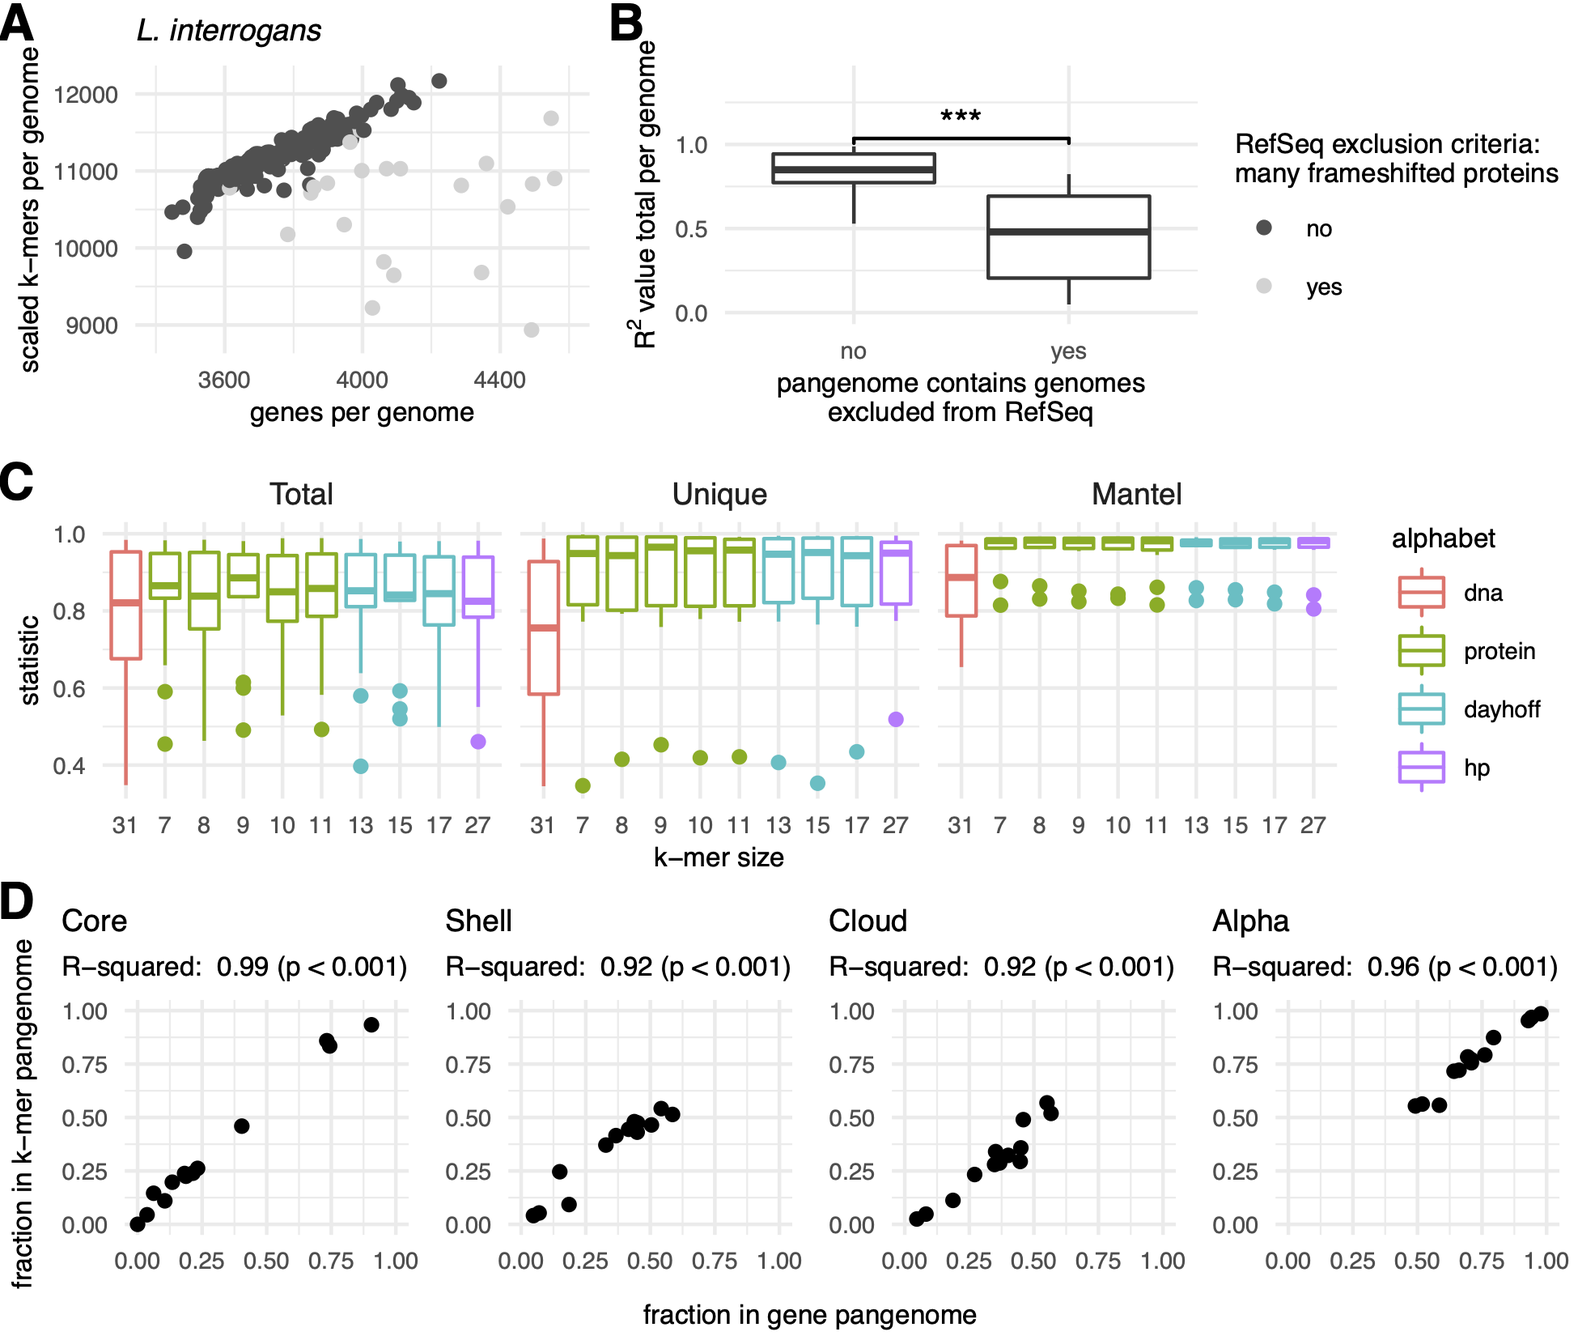
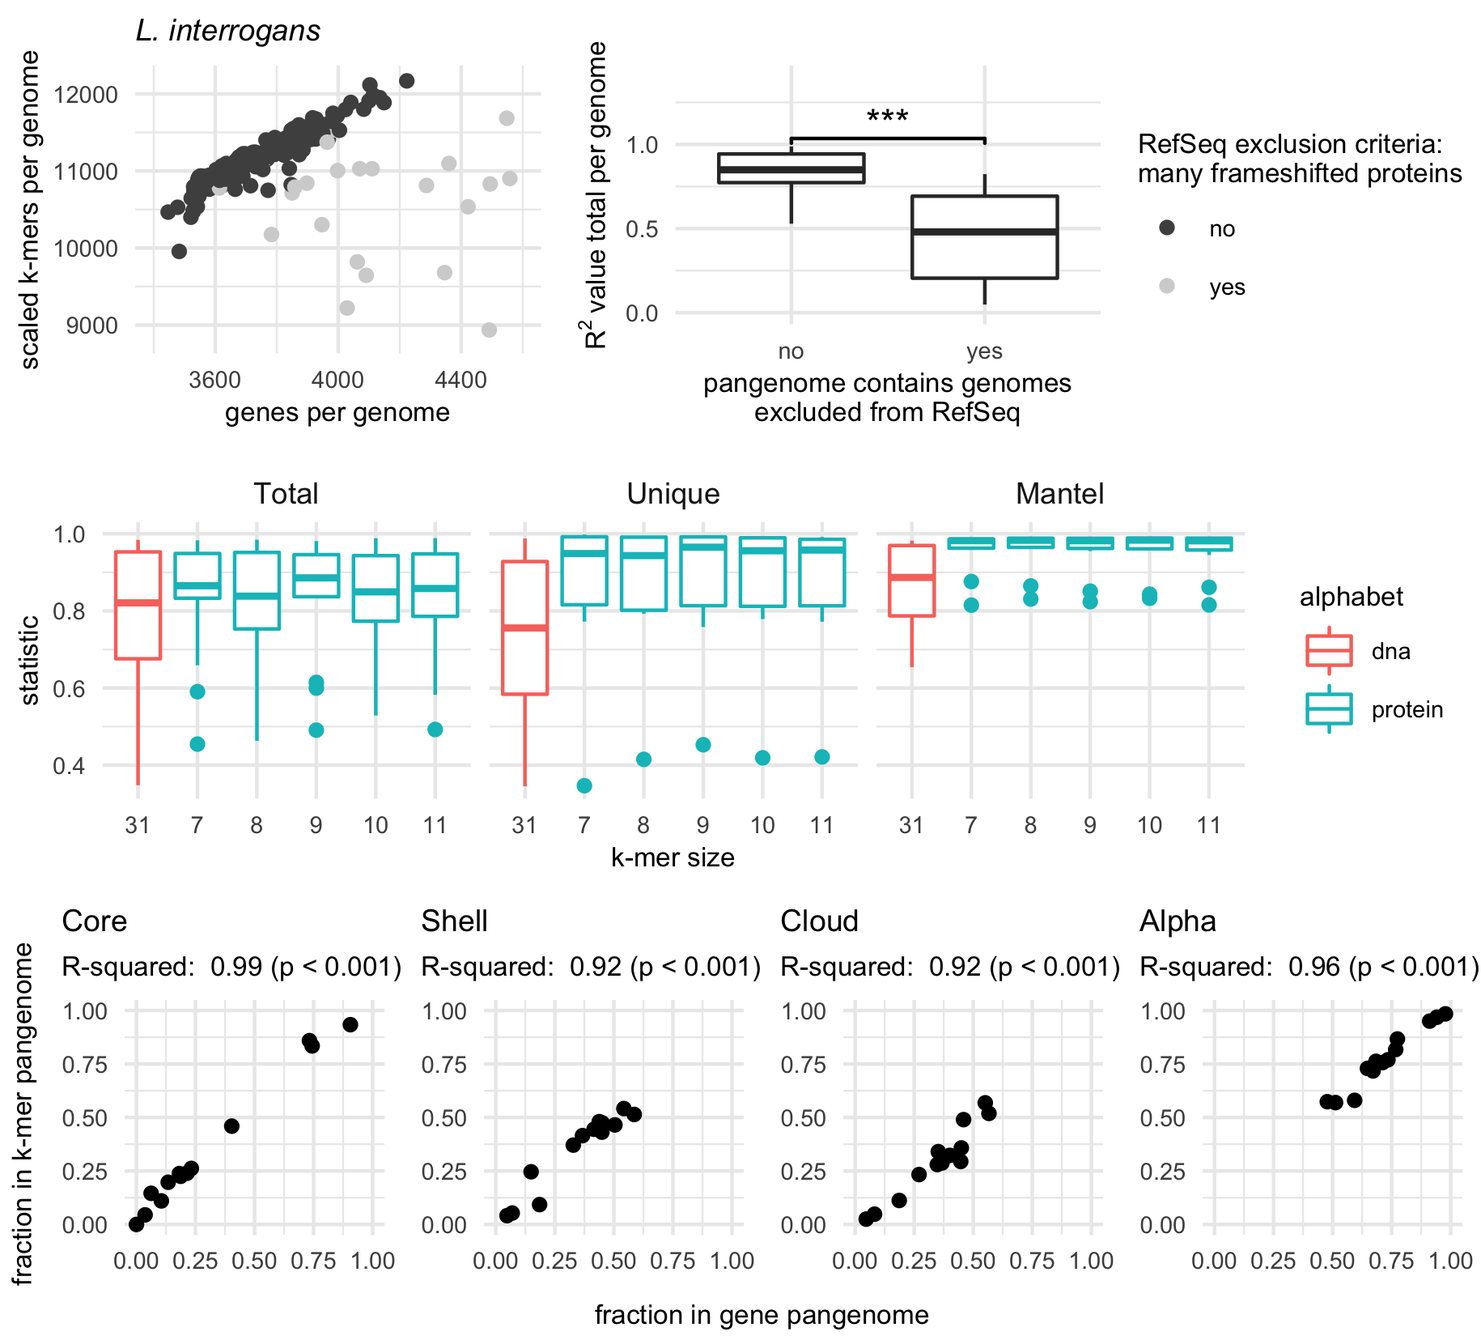
tessa's changes, abstract

diff --git a/content/03.results.md b/content/03.results.md
@@ -1,7 +1,7 @@
 # Results
 
 In an effort to reconstruct metapangenomes without loss of information from assembly and binning [@doi:10.1186/s13059-020-02066-4; @doi:10.1038/nmeth.4458; @doi:10.1101/2021.07.12.451567; @doi:10.1038/s41396-018-0081-5; @doi:10.1099/mgen.0.000436; @doi:10.1101/2021.05.04.442591], we demonstrate a pipeline that relies on k-mers and assembly graphs for metapangenome estimation (**Figure @fig:overview**).
-We first show that amino acid k-mers accurately estimate microbial pangenomes by comparing amino acid profiles of proteomes (translated coding domain sequences) against the proteomes themselves (**Figure @fig:overview A**).
+We first show that amino acid k-mers (k~aa~-mers) accurately estimate microbial pangenomes by comparing amino acid profiles of proteomes (translated coding domain sequences) against the proteomes themselves (**Figure @fig:overview A**).
 To derive amino acid k-mers directly from shotgun metagenome reads, we next demonstrate the accuracy of a tool called orpheum for open reading frame prediction from short sequencing reads (**Figure @fig:overview B**).
 We use assembly graph genome queries to retrieve species-specific reads from the metagenome, predict open reading frames from those reads using orpheum, and build a metapangenome using protein k-mers (**Figure @fig:overview C**).
 We then apply this method to species present over time in a time series metagenomes from a human gut microbiome.
@@ -15,15 +15,15 @@ Approaches that were developed or tested in this manuscript are outlined in grey
 The blue and orange lines correspond to steps tested in panels **A** and **B**.
 ](images/metapangenome_paper_overview.png){#fig:overview}
 
-## Reduced alphabet k-mers accurately estimate characteristics of microbial pangenomes
+## Protein k-mers accurately estimate characteristics of microbial pangenomes
 
 Pangenomes from isolates are typically built by assembling each isolate genome and predicting genes (open reading frames), clustering gene sequences from all genomes into a non-redundant set, and estimating the presence/absence or abundance of each gene in each genome. 
-To determine whether bacterial and archaeal pangenomes could be constructed from reduced alphabet k-mers, we compared pangenomes estimated from genes against those estimated from k-mers (amino acid, dayhoff, and hydrophobic-polar).
+To determine whether bacterial and archaeal pangenomes could be constructed from protein k-mers, we compared pangenomes estimated from genes against those estimated from k-mers.
 We compared pangenomes from 23 species belonging to 23 phyla in the GTDB taxonomy [@doi:10.1093/nar/gkab776], with pangenome size ranging from 20-972 genomes (mean = 203 genomes, median = 44 genomes) (**Figure S @fig:tree_fig**).
 For each pangenome, we compared the total number of genes to the total number of k-mers, and the number of unique genes to the number of distinct k-mers within each genome.
 We also tested the similarity of presence/absence profiles between pangenomes constructed with different methods using the Mantel test.
 
-For these three metrics, performance varied minimally across encodings and k-mer sizes, but varied dramatically between different pangenomes: both k-mers and genes are highly correlated for some pangenomes and are not correlated for others (**Figure S @fig:boxplt_fig**).
+For these three metrics, performance varied minimally across encodings and k-mer sizes, but varied dramatically for some pangenomes: both k-mers and genes are highly correlated for some pangenomes and are not correlated for others (**Figure S @fig:boxplt_fig**).
 We investigated pangenomes more closely to determine the source of the poor correlations and found that they were caused by the presence of many frameshifted proteins, one of many potential criteria for exclusion of GenBank genomes from RefSeq.
 For example, *Leptospira interrogans* had an R^2^ of 0.12 between the total number of genes and k-mers in genomes in the pangenome, but 21 of 317 genomes contained frameshifted proteins. 
 Removing these genomes increased the R^2^ to 0.87 (**Figure @fig:panmers_fig A**).
@@ -31,12 +31,11 @@ This trend was consistent across pangenomes, where pangenomes with one or more f
 Other RefSeq exclusion criteria did not impact the correlation between the total genes and k-mers per genome for a given pangenome.
 
 Using pangenomes that contained no genomes excluded from RefSeq for containing many frameshifted proteins (n = 13), we found that k-mer size encoding had little impact on the accuracy of pangenome estimation with k-mers (**Figure @fig:panmers_fig C**).
-This is likely because the genomes of the same species are closely related, so any reduced alphabet k-mer is sufficient to overcome minor genomic variations such as those introduced by codon degeneracy or evolutionary drift (CITE?).
+This is likely because the genomes of the same species are closely related, so protein k-mers is sufficient to overcome minor genomic variations such as those introduced by codon degeneracy or evolutionary drift (CITE?).
 The one exception was for nucleotide k-mers (*k* = 31), which did not correlate as strongly with gene-based pangenomes.
 This supports the use of reduced alphabet k-mer encodings over nucleotide k-mers for construction of pangenomes.
 Given that neither encoding nor k-mer size impacted these performance metrics, we selected protein k-mers with k = 10 to complete the rest of our analysis as this combination was the only combination to fall among the top five performers across all three metrics.
 In addition, protein k-mers of length 10 have recently been shown to perform well for comparisons across variable taxonomic distances (CITE: TESSA).
-<!-- TR: should this comment be moved to the discussion? -->
 
 ![
 **Amino acid k-mers accurately estimate microbial pangenomes.**
@@ -66,7 +65,7 @@ Without accurate open reading frame prediction, reads would need to be translate
 This would inflate the number of k-mers and decrease similarity between genomes.
 
 We evaluated whether orpheum, a tool recently developed to predict open reading frames in Eukaryotic short reads [@doi:10.1101/2021.07.09.450799], could also perform this task in bacterial and archaeal sequences.
-Orpheum predicts open reading frames by comparing reduced alphabet k-mers in six frame translations of short sequencing reads against those in a database (Jaccard containment) and assigns an open reading frame as coding if containment exceeds a user-defined threshold [@doi:10.1101/2021.07.09.450799].
+Orpheum predicts open reading frames by comparing reduced alphabet k-mers in six frame translations of short sequencing reads against those in a database (containment) and assigns an open reading frame as coding if containment exceeds a user-defined threshold [@doi:10.1101/2021.07.09.450799].
 To evaluate orpheum, we constructed a database containing all k-mers in coding domain sequences from genomes in GTDB rs202.
 Using representative genomes from the 23 species above, as well as 20 additional RefSeq genomes not in the GTDB rs202 database, we simulated short sequencing reads either from coding domain sequences or non-coding sequences and used these reads to test orpheum.
 
@@ -178,7 +177,7 @@ Metronidazole targets anaerobic bacteria via reduction by pyruvate:ferredoxin ox
 Metronidazole treatment disproportionately impacts the presence of anaerobes in the gut microbiome [@doi:10.1007/s10350-004-0623-y].
 We hypothesized that fluctuations in accessory k~aa~-mers reflected strain-level turn over in the community.
 To confirm this, we compared the nucleotide k-mer content in each query neighborhood against the GTDB database to determine which strains were present (**Figure @fig:metap_fig D**).
-We used a k-mer size of 51, as this is indicative of strain-level similarity (CITE: metapalette, tessa).
+We used a k-mer size of 51, as this is indicative of strain-level similarity [@doi:10.1128/mSystems.00020-16] (CITE: tessa).
 In each of the three species we investigated, we identified different patterns of strain fluctuations.
 In *Bacteroides uniformis*, only one strain (BIOML-A27) was present until week 25, when another strain appears (BIOML-A2).
 In *Parabacteroides distasonis*, the dominant strain switches at week 13 (20_3 to OF01-14), coincident with other strains appearing (BIOML-A21, BIOML-A26, BIOML-A32).

diff --git a/content/06.methods.md b/content/06.methods.md
@@ -1,11 +1,10 @@
 # Methods 
 
-<!-- Can I pretty plz keep these separate or do they need to be combined? -->
-All code is available at github.com/taylorreiter/2021-panmers (results section 1), github.com/taylorreiter/2021-orpheum-sim (results section 2), and https://github.com/taylorreiter/2021-metapangenome-example (results section 3).
+All code is available at github.com/dib-lab/2021-panmers (results section 1), github.com/dib-lab/2021-orpheum-sim (results section 2), and https://github.com/dib-lab/2021-metapangenome-example (results section 3).
 
 ### Selection of benchmarking species for pangenome analysis
 We selected a species representative for each of the 23 phyla in GTDB rs202 [@doi:10.1093/nar/gkab776]. 
-To select representative species, we first filtered species with fewer than 20 representatives and greater than 1000 representatives.
+To select representative species, we first filtered species with fewer than 20 genomes and greater than 1000 genomes.
 While this approach scales beyond 1000 genomes, we elected to benchmark smaller sets to iterate over the potential parameter space more quickly.
 Of species remaining after filtering, we selected the species within each phyla that had the largest number of genomes.
 We downloaded these genomes from GenBank.
@@ -52,20 +51,19 @@ We used the default short read error profile within polyester.
 ### Determining short read open reading frames with orpheum 
 We used the orpheum tool to predict open reading frames from simulated short reads [@doi:10.1101/2021.07.09.450799].
 Orpheum was developed to predict open reading frames in short RNA-seq reads from Eukaryotic organisms without a reference genome or transcriptome sequence [@doi:10.1101/2021.07.09.450799].
-Orpheum perform six-frame translation on nucleotide sequencing reads, calculates k-mers in an amino acid, dayhoff, or hydrophobic-polar encoding at the designated k-mer length, and then estimates the Jaccard similarity between k-mers in each translation frame and a database. 
+Orpheum perform six-frame translation on nucleotide sequencing reads, calculates k-mers in an amino acid encoding at the designated k-mer length, and then estimates the Jaccard similarity between k-mers in each translation frame and a database. 
 It then selects all open reading frames based on a Jaccard similarity threshold, and returns those reads as translated amino acid sequences.
 Open reading frames are excluded if they contain stop codons, low complexity sequences, or if the read is too short to perform translation.
 Reads are designated as non-coding if they don't reach the Jaccard similarity threshold and are not excluded for other reasons.
-<!-- Is it jaccard similarity? It's whichever one makes sense and I always get them confused -->
-
-We constructed a database from GTDB rs202 using sourmash XXX and using a k-mer size of 10.
-+ @Tessa any relevant details would be very helpful :) 
+We constructed a database from all genomes in GTDB rs202.
+We either downloaded predicted open reading frames from GenBank, or generated them using prodigal [@doi:10.1186/1471-2105-11-119], and translated them into protein sequences using transeq [@url:http://ebi.ac.uk/Tools/emboss/transeq/index.html].
+we then used to build a nodegraph using a k~aa~-mer size of 10.
 
 ### K~aa~-mer metapangenome analysis of iHMP metagenomes
 We used sourmash, spacegraphcats, and orpheum to perform k~aa~-mer metapangenome analysis of 12 iHMP time series gut microbiomes captured by short read shotgun metagenomes [@doi:10.1038/s41586-019-1237-9].
 We downloaded samples HSM6XRQB, HSM6XRQI, HSM6XRQK, HSM6XRQM, HSM6XRQO, HSM67VF9, HSM67VFD, HSM67VFJ, HSM7CYY7, HSM7CYYD, HSM7CYY9, HSM7CYYB from ibdmdb.org.
 We adapter and quality trimmed each sample with fastp (parameters `--detect_adapter_for_pe`, `--qualified_quality_phred 4`, `--length_required 31`, and `--correction`), removed human host sequencing reads with bbduk (parameters `k=31`, reference file https://drive.google.com/file/d/0B3llHR93L14wd0pSSnFULUlhcUk/edit?usp=sharing), and k-mer trimmed reads using khmer `trim-low-abund.py` (parameters `-C 3`, `-Z 18`, `-V`) [@doi:10.12688/f1000research.6924.1].
-We then used sourmash gather to infer the taxonomic profile of each sample, using the GTDB rs202 database (`k` = 31, https://osf.io/w4bcm/) [@doi:10.1038/s41586-019-1237-9].
+We then used sourmash `gather` to infer the taxonomic profile of each sample, using the GTDB rs202 database (`k` = 31, https://osf.io/w4bcm/) [@doi:10.1038/s41586-019-1237-9].
 We summarized the results to species-level using the GTDB taxonomy.
 We retained species with a cumulative sum of at least 2% (sum of `f_unique_to_query`) across metagenome reads as query genomes.
 We downloaded each genome from GenBank (**Table @tbl:acc**) and performed spacegraphcats assembly graph queries with each (parameters `ksize: 31`, `radius: 1`, `paired_reads: true`) [@doi:10.1186/s13059-020-02066-4].
@@ -106,5 +104,5 @@ We then mapped the unmapped reads against the *de novo* metapangenome.
 To prepare the *de novo* metapangenome for mapping, we clustered nucleotide sequences at 95% using cd-hit-est [@doi:10.1093/bioinformatics/btl158].
 We then mapped the unmapped reads using bwa `mem` with default parameters.
 We extracted unmapped reads using the same procedure as above.
-To determine whether more reads mapped in amino acid space, we translated the reference and *de novo* (meta)pangenomes into protein sequences using transeq (http://ebi.ac.uk/Tools/emboss/transeq/index.html), and then repeated the same iterative mapping procedure using paladin `align` [@doi:10.1093/bioinformatics/btx021].
+To determine whether more reads mapped in amino acid space, we translated the reference and *de novo* (meta)pangenomes into protein sequences using transeq [@url:http://ebi.ac.uk/Tools/emboss/transeq/index.html], and then repeated the same iterative mapping procedure using paladin `align` [@doi:10.1093/bioinformatics/btx021].
 To test whether the fraction of mapped reads increased between the two mapping protocols, we used the R function `t.test()` using parameter `paired = TRUE`.

diff --git a/content/04.discussion.md b/content/04.discussion.md
@@ -12,7 +12,7 @@ This may improve functional recall from metagenome short reads from organisms wi
 Similarly, k~aa~-mer pangenomes built from sketches may offer benefits over other pangenome construction methods, many of which are predominately tied to exact matching of k-mers between genomes.
 Exact matching of k-mers between genomes enables additional genomes to be added to the pangenome without having to re-cluster gene sequences. 
 Exact matching also allows direct comparisons to distantly related organisms, which creates a unified framework for genome comparisons even when organisms are distantly related.
-While we predominately explored k~aa~-mers of length 10 in this paper, k-mers from other degenerate alphabets like Dayhoff or hydrophobic-polar encodings may allow for accurate comparisons at greater evolutionary distances (CITE: Tessa).
+While we predominately explored k~aa~-mers of length 10 in this paper, k-mers from other degenerate alphabets like Dayhoff or hydrophobic-polar encodings may allow for accurate comparisons at greater evolutionary distances [@doi:10.1101/2021.07.09.450799].
 When pangenomes are built from FracMinHashes as performed here, the scaled down sampling parameter may also enable even faster pangenome size estimation even for very large collections of genomes.
 genes in a genome, and could be potentially used a quality control metric for annotated genomes.
 While developed for the metapangenomics space, this study demonstrates that k~aa~-mer pangenomes also accurately estimate pangenomes built from isolate genomes. 
@@ -27,10 +27,10 @@ Often, reads may be longer than unitigs (nodes) in the cDBG in regions of high v
 While recovering these reads and assigning their taxonomic identity through graph queries is useful, many of the recovered reads cannot be assembled due to prolific sequencing variation attributable to strain diversity in the original microbial community.
 Yet, the sequences represented by these un-assembleable reads often encode functional potential, some of which may be key to a microorganisms functioning within its ecosystem [@doi:10.1093/bioinformatics/btx681; @doi:10.1038/s41396-018-0081-5].
 The approaches presented in this paper enable these sequences to be represented in metapangenome estimation.
-Indeed, as demonstrated by the number of bins generated per species at each time point, many species were observed in a sample for which no bin was produced, often because the species was present at low abundance (**Figure @metap_sfig**).
+Indeed, as demonstrated by the number of bins generated per species at each time point, many species were observed in a sample for which no bin was produced, often because the species was present at low abundance (**Figure @fig:metap_sfig**).
 K~aa~-mer metapangenomes rescue these sequences and include them in the analysis.
 
-Interestingly, in some samples, *de novo* metagenome analysis produced multiple MAGs (**Figure @metap_sfig**).
+Interestingly, in some samples, *de novo* metagenome analysis produced multiple MAGs (**Figure @fig:metap_sfig**).
 While not explored here, it may be possible to estimate the number of strains present in a sample using k~aa~-mer abundances.
 FracMinHash sketches optionally retain abundance information, so it is possible that this information could be retrieved directly from these sketches.
 
@@ -41,11 +41,11 @@ The technology to do this exists (CITE: IBD) [@doi:10.1007/978-3-030-18174-1_6],
 Second, using the sequences included in the orpheum species databases, species-level protein databases that include functional annotations could be built and searched using sourmash gather. 
 While rapid, this approach is undesirable given its reliance on existing annotations for genes within a given species. 
 Lastly, a database such as the NCBI nr database could be made searchable in a similar capacity, increasing the breadth of possible matches. 
-This  may require new algorithm development to maintain scalability.
+This may require new algorithm development to maintain scalability [@doi:10.1101/2020.04.01.019984].
 
 While cDBGs are often common intermediary data structures in bioinformatics pipelines (e.g., metagenome assembly), the organization of cDBGs is still under explored.
 Sequences from a genome or from closely related genomes often co-locate in neighborhoods of the cDBG [@doi:10.1038/s41396-018-0081-5; @doi:10.1186/s13059-020-02066-4], but regions of high sequence conservation and horizontally transferred genes create bridges between otherwise distant neighborhoods in the graph [@doi:10.1093/bioinformatics/btx681, @doi:10.1038/s41396-018-0081-5]. 
-Even still, species-level neighborhoods are well conserved and can be extracted [@doi:10.1186/s13059-020-02066-4; 10.1101/2022.02.25.481923].
+Even still, species-level neighborhoods are well conserved and can be extracted [@doi:10.1186/s13059-020-02066-4; @doi:10.1101/2022.02.25.481923].
 As we observed in strain-level plots of query neighborhoods wherein a fraction of the graph fell in the "other category" and belonged to low-abundance strains of the same species or organisms of other closely-related species (**Figure @fig:metap_fig D**), it is unclear the extent to which assembly graph organization breaks down in real metagenomes. 
 Prolific horizontal gene transfer could account for shared sequencing content, either by collapsing neighborhoods in the graph or by increasing the fraction of shared sequences between community members.
 Deeply sequenced paired long and short reads from the same community could help resolve these questions.

diff --git a/content/01.abstract.md b/content/01.abstract.md
@@ -1,3 +1,10 @@
 ## Abstract {.page_break_before}
 
-
+Microbial pangenomes reflect the metabolic diversity of groups of organisms.
+As *de novo* metagenome analysis techniques have matured and reference genome databases have expanded, metapangenome analysis has risen in popularity as a tool to organize the functional potential of organisms in relation to the environment from which those organisms were sampled.
+However, the reliance on assembly and binning or on reference databases often leaves substantial portions of metagenomes unanalyzed, thereby underestimating the functional potential of a community.
+To improve this problem, we present a method for metapangenomics that relies on protein k-mers (k~aa~-mers) and metagenome assembly graph queries.
+To enable this method, we first show that k~aa~-mers estimate pangenome characteristics and that open reading frames can be accurately predicted from short shotgun sequencing reads using the previously developed tool orpheum.
+These techniques enable pangenomics to be performed directly on short sequencing reads.
+To enable metapangenome analysis, we combine these approaches with compact de Bruijn assembly graph queries to generate sets of sequencing reads that belong to a specific species directly from a metagenome.
+When applied to stool metagenomes from an individual receiving antibiotics over time, we show that these approaches identify strain fluctuations that coincide with antibiotic exposure.
